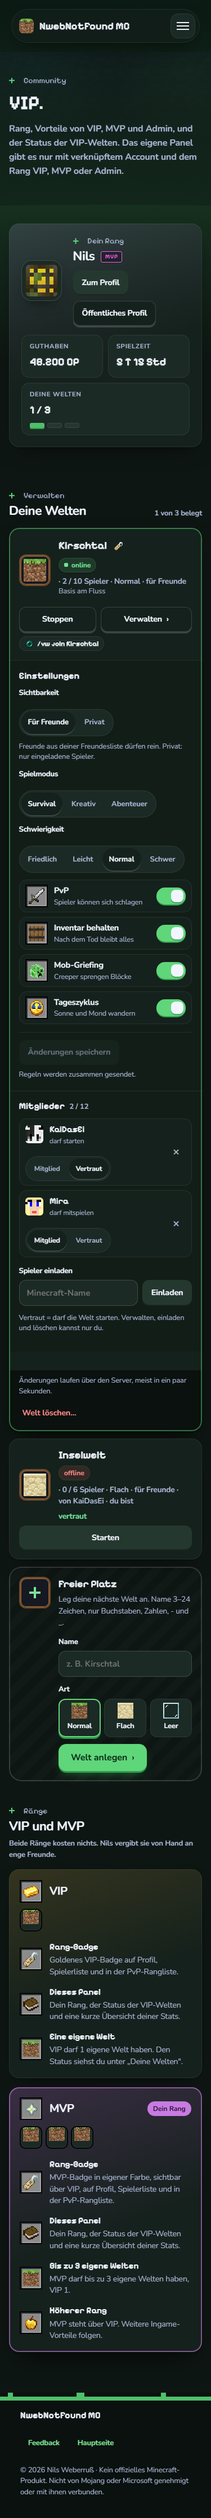
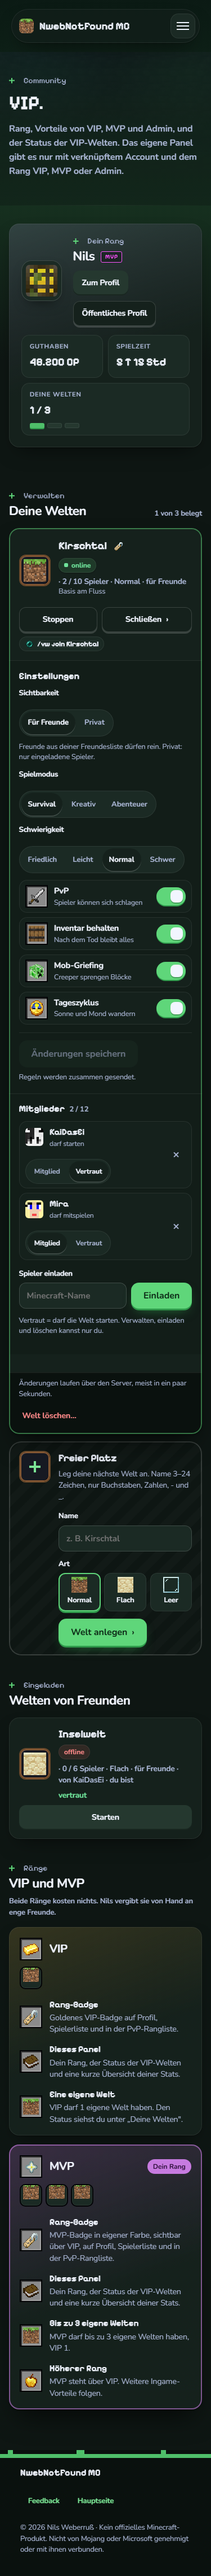
fix(mc): VIP-Panel v2 – Designer-QA-Runde 2
Admin-Karten offen ueber volle Breite, Loeschdialog als gestylter Fuss mit
Hinweis und rotem Knopf, Speichern/Einladen als Primaerknoepfe, eingeladene
Welten im eigenen Block, Regler mindestens 32 px hoch. Screenshots fuer
Admin, aktives Speichern und Loeschdialog bei 375/1280.

diff --git a/public/mc/vip.js b/public/mc/vip.js
@@ -74,7 +74,7 @@
     return `<section class="v2-pane" aria-label="Einstellungen"><h3 class="v2-h3">Einstellungen</h3>${seg("Sichtbarkeit", "visibility", vis, [["friends", "Für Freunde"], ["private", "Privat"]])}<p class="mut v2-hint">Freunde aus deiner Freundesliste dürfen rein. Privat: nur eingeladene Spieler.</p>${seg("Spielmodus", "gamemode", st.gamemode, GM)}${seg("Schwierigkeit", "difficulty", st.difficulty, DIFF)}<ul class="v2-toggles">${TOGGLES.map(([k, icon, title, text]) => {
       const on = st[k] === true;
       return `<li>${slot(icon)}<span><b>${E(title)}</b><span class="mut">${E(text)}</span></span><button class="v2-tgl" type="button" role="switch" data-set="${k}" data-val="${on ? "false" : "true"}" aria-checked="${on}" aria-label="${E(title)}"></button></li>`;
-    }).join("")}</ul><div class="v2-save"><button class="btn sm" type="button" data-save="${E(s.id)}" disabled>Änderungen speichern</button><span class="mut v2-hint">Regeln werden zusammen gesendet.</span></div></section>`;
+    }).join("")}</ul><div class="v2-save"><button class="btn" type="button" data-save="${E(s.id)}" disabled>Änderungen speichern</button><span class="mut v2-hint">Regeln werden zusammen gesendet.</span></div></section>`;
   };
   const membersPane = (s) => {
     const list = (Array.isArray(s.members) ? s.members : []).filter((m) => NAME.test(m && m.name || ""));
@@ -82,10 +82,10 @@
       const trusted = m.role === "trusted";
       return `<li>${head(m.name, 32, "v2-mhead")}<span class="v2-mname"><b>${E(m.name)}</b><span class="mut">${trusted ? "darf starten" : "darf mitspielen"}</span></span><div class="seg v2-role" role="group" aria-label="Rolle von ${E(m.name)}"><button type="button" data-act="trust" data-id="${E(s.id)}" data-name="${E(m.name)}" data-role="member" aria-pressed="${!trusted}">Mitglied</button><button type="button" data-act="trust" data-id="${E(s.id)}" data-name="${E(m.name)}" data-role="trusted" aria-pressed="${trusted}">Vertraut</button></div><button class="v2-icbtn v2-x" type="button" data-act="uninvite" data-id="${E(s.id)}" data-name="${E(m.name)}" aria-label="${E(m.name)} entfernen">×</button></li>`;
     }).join("");
-    return `<section class="v2-pane" aria-label="Mitglieder"><h3 class="v2-h3">Mitglieder <span class="mut v2-count">${NF(list.length)} / 12</span></h3><ul class="v2-members">${rows || '<li class="v2-empty"><span class="mut">Noch niemand eingeladen.</span></li>'}</ul><form class="v2-invite" data-id="${E(s.id)}"><div class="field"><label for="inv-${E(s.id)}">Spieler einladen</label><input id="inv-${E(s.id)}" name="name" placeholder="Minecraft-Name" autocomplete="off" maxlength="16" pattern="[A-Za-z0-9_]{1,16}" required></div><button class="btn sm" type="submit">Einladen</button></form><p class="mut v2-hint">Vertraut = darf die Welt starten. Verwalten, einladen und löschen kannst nur du.</p></section>`;
+    return `<section class="v2-pane" aria-label="Mitglieder"><h3 class="v2-h3">Mitglieder <span class="mut v2-count">${NF(list.length)} / 12</span></h3><ul class="v2-members">${rows || '<li class="v2-empty"><span class="mut">Noch niemand eingeladen.</span></li>'}</ul><form class="v2-invite" data-id="${E(s.id)}"><div class="field"><label for="inv-${E(s.id)}">Spieler einladen</label><input id="inv-${E(s.id)}" name="name" placeholder="Minecraft-Name" autocomplete="off" maxlength="16" pattern="[A-Za-z0-9_]{1,16}" required></div><button class="btn" type="submit">Einladen</button></form><p class="mut v2-hint">Vertraut = darf die Welt starten. Verwalten, einladen und löschen kannst nur du.</p></section>`;
   };
   const renameForm = (s) => `<form class="v2-rename" id="rn-${E(s.id)}" data-id="${E(s.id)}" hidden><div class="field"><label for="rn-in-${E(s.id)}">Neuer Name</label><input id="rn-in-${E(s.id)}" name="name" value="${E(s.label)}" maxlength="24" minlength="3" pattern="[A-Za-z0-9_-]{3,24}" autocomplete="off" required></div><button class="btn sm" type="submit">Umbenennen</button></form>`;
-  const deleteForm = (s) => `<form class="v2-delconfirm" id="dc-${E(s.id)}" data-id="${E(s.id)}" data-name="${E(s.label)}" hidden><div class="field"><label for="dc-in-${E(s.id)}">Zum Löschen <b>${E(s.label)}</b> eintippen</label><input id="dc-in-${E(s.id)}" name="confirm" autocomplete="off" required></div><button class="btn sm danger" type="submit">Endgültig löschen</button></form>`;
+  const deleteForm = (s) => `<form class="v2-delconfirm" id="dc-${E(s.id)}" data-id="${E(s.id)}" data-name="${E(s.label)}" hidden><div class="field"><label for="dc-in-${E(s.id)}">Zum Löschen <b>${E(s.label)}</b> eintippen</label><input id="dc-in-${E(s.id)}" name="confirm" autocomplete="off" placeholder="${E(s.label)}" maxlength="24" required></div><button class="btn danger" type="submit">Endgültig löschen</button><p class="mut v2-hint">Löschen lässt sich nicht rückgängig machen. Die Welt und ihre Einstellungen sind danach weg.</p></form>`;
   // Eine Weltkarte. Verwalten nur für Owner/Admin; trusted und Mitglieder sehen Starten.
   const world = (s, opts = {}) => {
     if (!s || typeof s !== "object" || !WID.test(s.id || "")) return "";
@@ -105,7 +105,7 @@
     const info = (s.info || "").trim() ? `<p class="mut v2-hint">${E(s.info)}</p>` : "";
     const acts = [];
     if (uuid && s.can_start) acts.push(`<button class="btn sm${online ? " sec" : ""}" type="button" data-act="${online ? "stop" : "start"}" data-id="${E(s.id)}">${online ? "Stoppen" : "Starten"}</button>`);
-    if (uuid && s.can_manage) acts.push(`<button class="btn sm sec v2-more" type="button" data-manage="${E(s.id)}" aria-expanded="true" aria-controls="wb-${E(s.id)}">Verwalten <span class="arrow">›</span></button>`);
+    if (uuid && s.can_manage) acts.push(`<button class="btn sm sec v2-more" type="button" data-manage="${E(s.id)}" aria-expanded="true" aria-controls="wb-${E(s.id)}"><span class="v2-more-t">Schließen</span> <span class="arrow">›</span></button>`);
     if (online) acts.push(`<span class="chip v2-join">${ico("ender_pearl", 16)}<code>/vw join ${E(s.label)}</code></span>`);
     const manage = uuid && s.can_manage;
     const body = manage ? `<div class="v2-wbody" id="wb-${E(s.id)}">${settingsPane(s)}${membersPane(s)}</div><footer class="v2-wfoot"><span class="mut v2-hint">Änderungen laufen über den Server, meist in ein paar Sekunden.</span><button class="btn sm ghost v2-danger" type="button" data-del="${E(s.id)}" aria-controls="dc-${E(s.id)}" aria-expanded="false">Welt löschen…</button></footer>${deleteForm(s)}` : "";
@@ -118,10 +118,16 @@
     const own = all.filter((s) => s && s.owner === true);
     const mine = w && Number.isFinite(+w.mine) ? Math.max(own.length, Math.floor(+w.mine)) : own.length;
     const invited = all.filter((s) => s && s.owner !== true && s.invited === true);
-    const cardsHtml = [...own.map((s) => world(s, { admin })), ...invited.map((s) => world(s, {}))].filter(Boolean).join("");
+    const ownHtml = own.map((s) => world(s, { admin })).filter(Boolean).join("");
+    const invitedHtml = invited.map((s) => world(s, {})).filter(Boolean).join("");
     const add = mine < max ? createCard() : full(max);
-    const empty = cardsHtml ? "" : `<p class="mut v2-hint">Sobald der Server deine Welt meldet, steht hier ihr Status.</p>`;
-    return `<section class="vip-block" id="${admin ? "vip-admin-worlds" : "v2-worlds"}"><div class="vip-head v2-head-row"><div><p class="eyb">${admin ? "Verwaltung" : "Verwalten"}</p><h2 class="hub-h2">${admin ? "Alle VIP-Welten" : "Deine Welten"}</h2></div><span class="mut vip-head-n">${NF(mine)} von ${NF(max)} belegt</span></div><div class="v2-wlist">${cardsHtml}${empty}${add}</div></section>`;
+    const empty = ownHtml ? "" : `<p class="mut v2-hint">Sobald der Server deine Welt meldet, steht hier ihr Status.</p>`;
+    // Eingeladene Welten stehen wie im Mockup in einem eigenen Block, damit "gehört mir" und
+    // "bin eingeladen" nicht in einer Liste zusammenfallen.
+    const invitedBlock = invitedHtml
+      ? `<section class="vip-block" id="v2-invited"><div class="vip-head"><div><p class="eyb">Eingeladen</p><h2 class="hub-h2">Welten von Freunden</h2></div></div><div class="v2-wlist">${invitedHtml}</div></section>`
+      : "";
+    return `<section class="vip-block" id="${admin ? "vip-admin-worlds" : "v2-worlds"}"><div class="vip-head v2-head-row"><div><p class="eyb">${admin ? "Verwaltung" : "Verwalten"}</p><h2 class="hub-h2">${admin ? "Alle VIP-Welten" : "Deine Welten"}</h2></div><span class="mut vip-head-n">${NF(mine)} von ${NF(max)} belegt</span></div><div class="v2-wlist">${ownHtml}${empty}${add}</div></section>${invitedBlock}`;
   };
   const ADMIN_PAGE = 12;
   const adminWorlds = (w) => {
@@ -245,6 +251,9 @@
       if (!card) return;
       const open = card.classList.toggle("is-open");
       btn.setAttribute("aria-expanded", open ? "true" : "false");
+      // Die Karte startet offen; die Beschriftung sagt, was der Knopf jetzt tut.
+      const lab = btn.querySelector(".v2-more-t");
+      if (lab) lab.textContent = open ? "Schließen" : "Verwalten";
       return;
     }
     const ren = btn.getAttribute("data-rename");

diff --git a/public/mc/vip.css b/public/mc/vip.css
@@ -38,6 +38,7 @@ html.mc .vip-say.is-bad{color:var(--c-red)}
 html.mc .vip-ranks.is-three{grid-template-columns:minmax(0,1fr)}
 @media(min-width:1040px){html.mc .vip-ranks.is-three{grid-template-columns:repeat(3,minmax(0,1fr))}}
 html.mc .vip-aworlds{display:grid;gap:var(--s3);grid-template-columns:repeat(auto-fit,minmax(min(100%,18rem),1fr))}
+html.mc .vip-aworlds .v2-world.is-open{grid-column:1/-1}
 html.mc .v2-world.is-extra{display:none}
 html.mc .vip-aworlds.is-open .v2-world.is-extra{display:block}
 html.mc .vip-more{margin-top:var(--s3)}
@@ -118,10 +119,10 @@ html.mc .v2-toggles{list-style:none;margin:.4rem 0 0;padding:0;display:grid;gap:
 html.mc .v2-toggles li{display:grid;grid-template-columns:40px minmax(0,1fr) auto;gap:.7rem;align-items:center;padding:.55rem .7rem;border-radius:var(--r-md);background:var(--surface);box-shadow:var(--bevel)}
 html.mc .v2-toggles b{display:block;font-size:.9rem}
 html.mc .v2-toggles .mut{display:block;font-size:.78rem}
-html.mc .v2-tgl{flex:none;width:52px;height:30px;border:0;border-radius:999px;background:var(--surface-3);position:relative;cursor:pointer;box-shadow:var(--bevel-2)}
-html.mc .v2-tgl::after{content:"";position:absolute;top:4px;left:4px;width:22px;height:22px;border-radius:8px;background:var(--ink);box-shadow:0 2px 0 rgba(0,0,0,.25);transition:transform .28s cubic-bezier(.34,1.56,.64,1)}
+html.mc .v2-tgl{flex:none;width:52px;height:32px;border:0;border-radius:999px;background:var(--surface-3);position:relative;cursor:pointer;box-shadow:var(--bevel-2)}
+html.mc .v2-tgl::after{content:"";position:absolute;top:5px;left:5px;width:22px;height:22px;border-radius:8px;background:var(--ink);box-shadow:0 2px 0 rgba(0,0,0,.25);transition:transform .28s cubic-bezier(.34,1.56,.64,1)}
 html.mc .v2-tgl[aria-checked="true"]{background:var(--act);box-shadow:0 2px 0 var(--act-edge)}
-html.mc .v2-tgl[aria-checked="true"]::after{transform:translateX(22px)}
+html.mc .v2-tgl[aria-checked="true"]::after{transform:translateX(20px)}
 html.mc .v2-save{display:flex;flex-wrap:wrap;align-items:center;gap:.5rem .8rem;margin-top:.9rem;padding-top:.8rem;border-top:1px solid var(--line)}
 html.mc .v2-save .v2-hint{margin:0}
 html.mc .v2-save .btn[disabled]{opacity:.55;cursor:not-allowed}
@@ -143,6 +144,13 @@ html.mc .v2-wfoot{display:none;flex-wrap:wrap;justify-content:space-between;alig
 html.mc .v2-world.is-open .v2-wfoot{display:flex}
 html.mc .v2-wfoot .v2-hint{margin:0}
 html.mc .v2-danger{color:var(--down)!important}
+html.mc .btn.danger{background:var(--c-red);border-color:var(--c-red);color:#2a0708}
+html.mc .btn.danger:hover{background:#ff8383;border-color:var(--c-red);color:#2a0708;box-shadow:inset 0 -2px 0 rgba(0,0,0,.25),0 0 0 2px rgba(255,97,97,.35),0 0 0 4px var(--c-bg)}
+html.mc .v2-delconfirm{display:flex;flex-wrap:wrap;gap:.6rem .8rem;align-items:flex-end;width:100%;padding:.9rem 1.1rem 1.1rem;border-top:1px solid var(--line);background:rgba(0,0,0,.18)}
+html.mc .v2-delconfirm[hidden],html.mc .v2-world:not(.is-open) .v2-delconfirm{display:none}
+html.mc .v2-delconfirm .field{flex:1 1 14rem;min-width:0}
+html.mc .v2-delconfirm .btn{min-height:44px}
+html.mc .v2-delconfirm .v2-hint{flex-basis:100%;margin:0}
 html.mc .v2-free{display:grid;grid-template-columns:56px minmax(0,1fr);gap:.9rem;padding:1.1rem;border-radius:var(--r);box-shadow:inset 0 0 0 2px var(--line-strong);background:repeating-linear-gradient(135deg,transparent 0 14px,rgba(255,255,255,.018) 14px 28px)}
 html.mc .v2-plus{color:var(--link);background:var(--surface-2);border-radius:14px;box-shadow:var(--bevel)}
 html.mc .v2-free-in{min-width:0}
